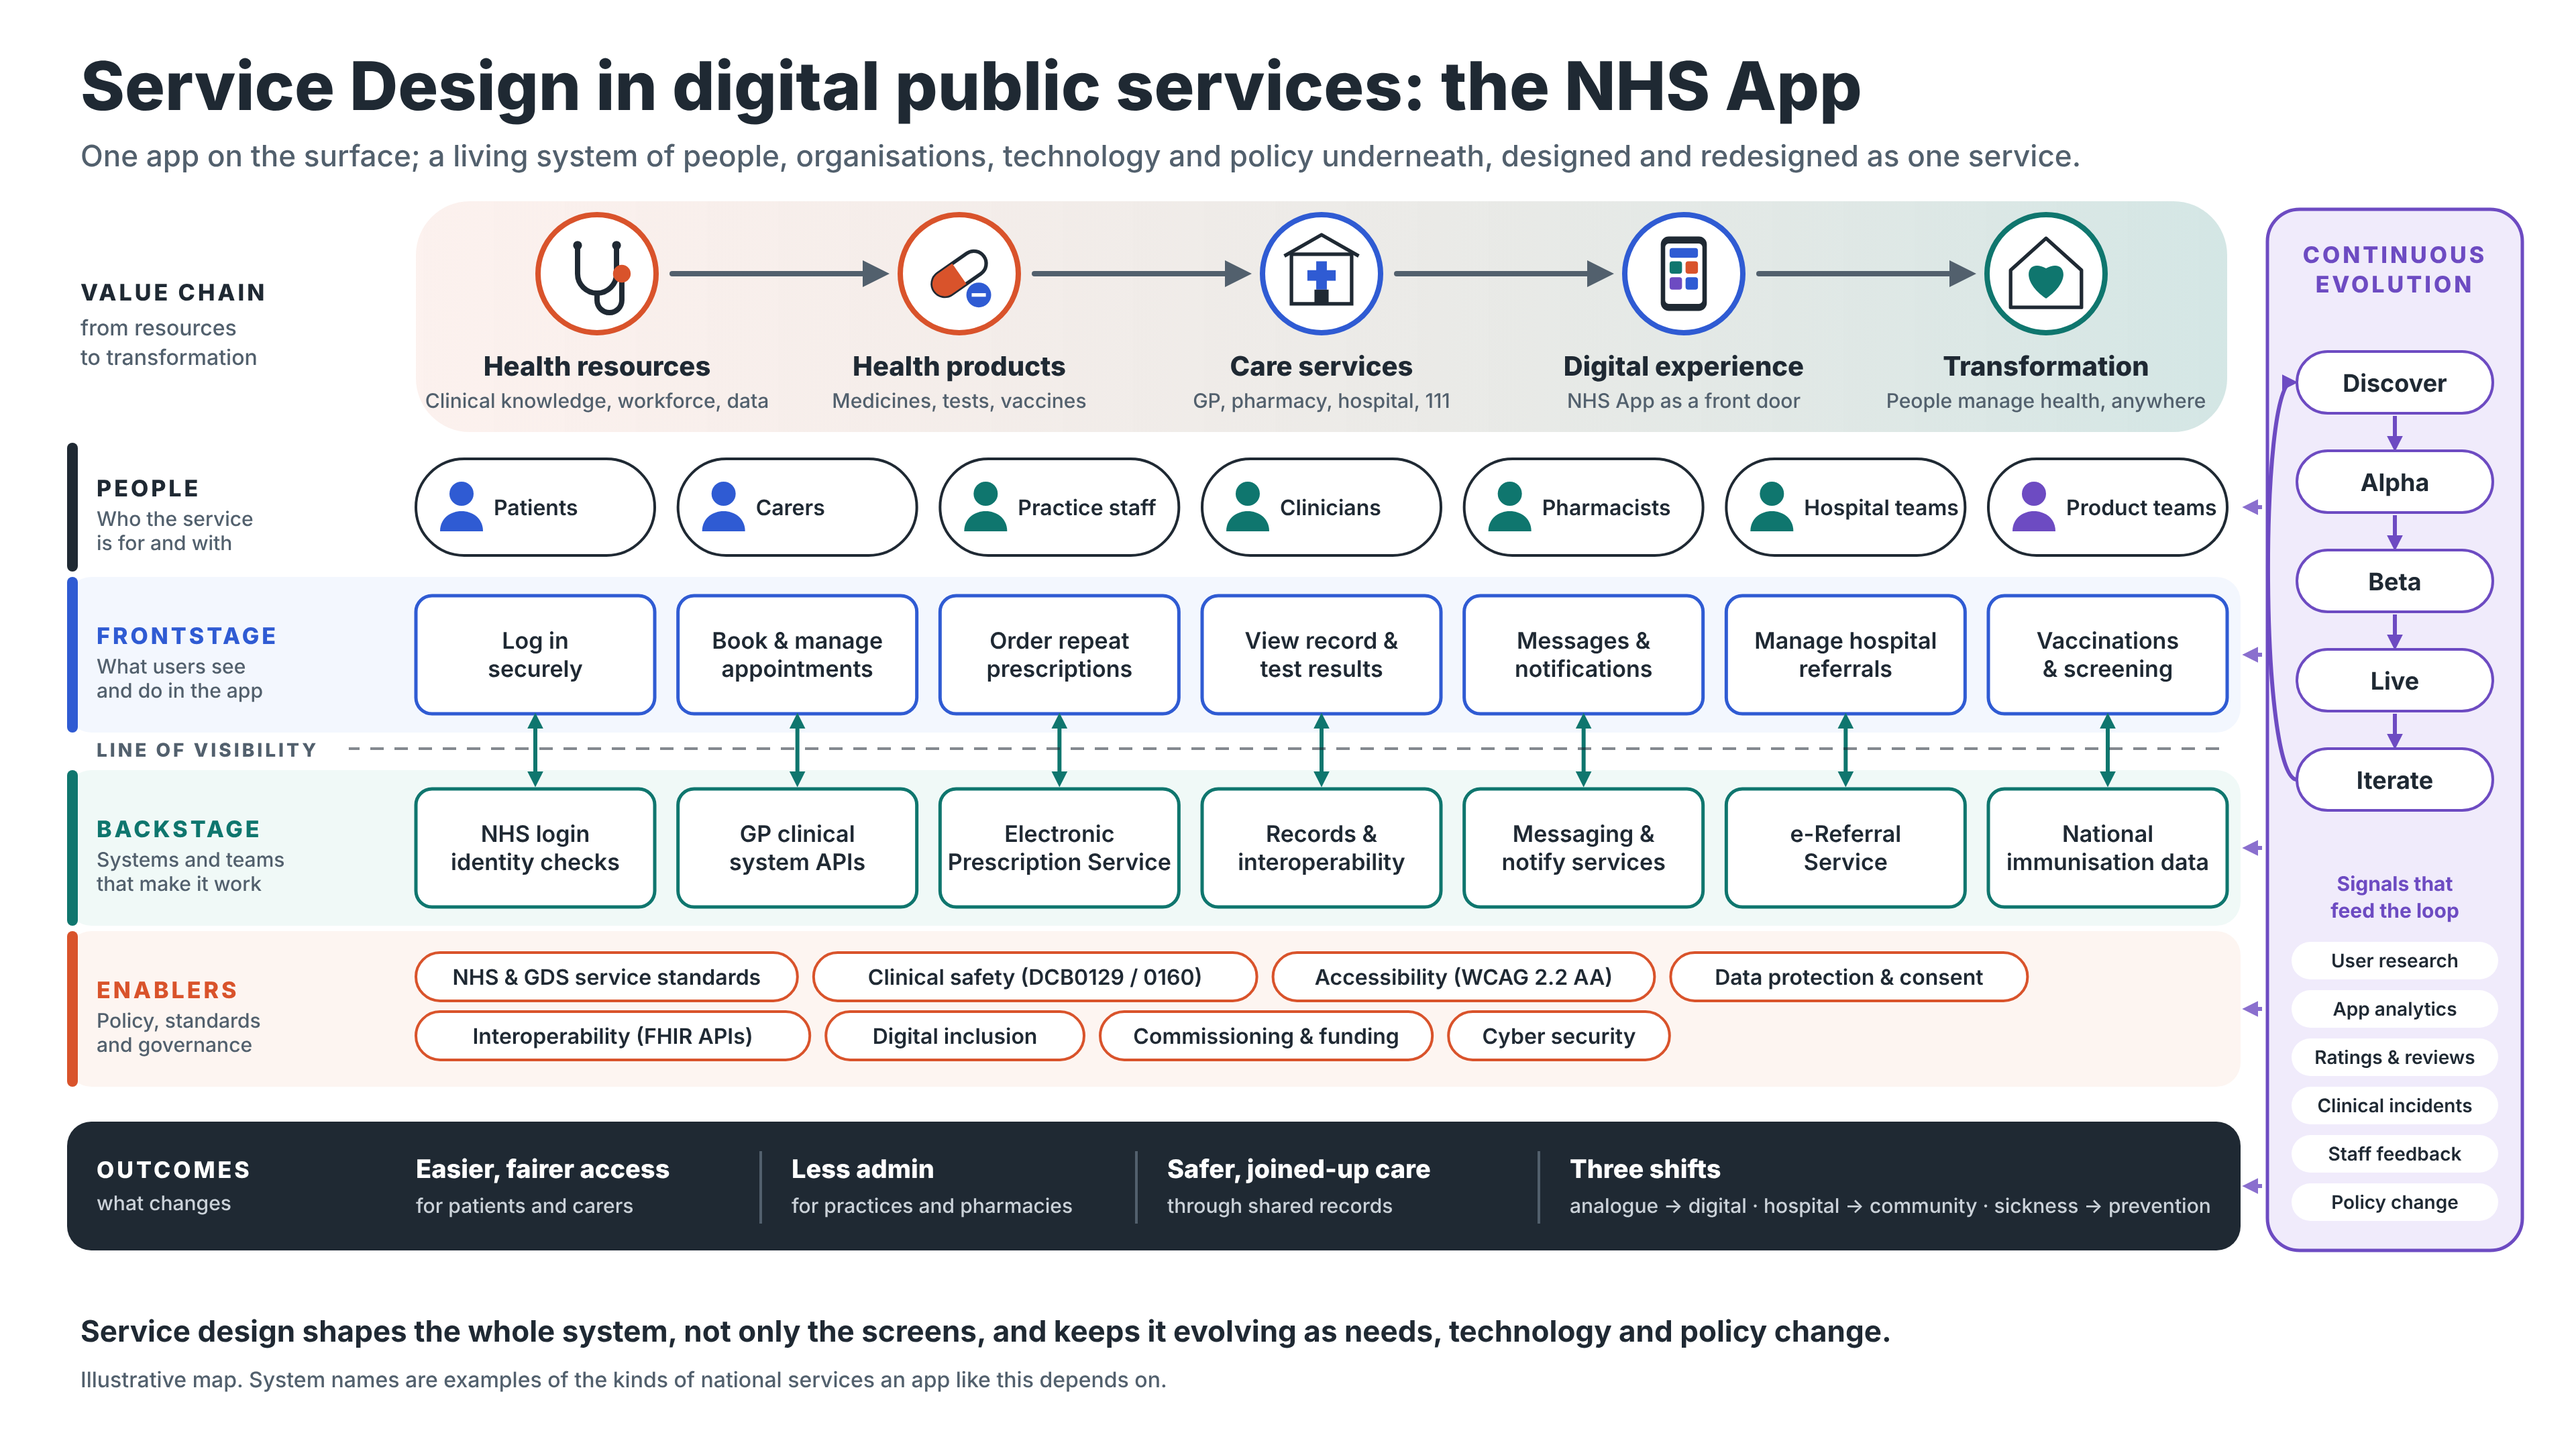
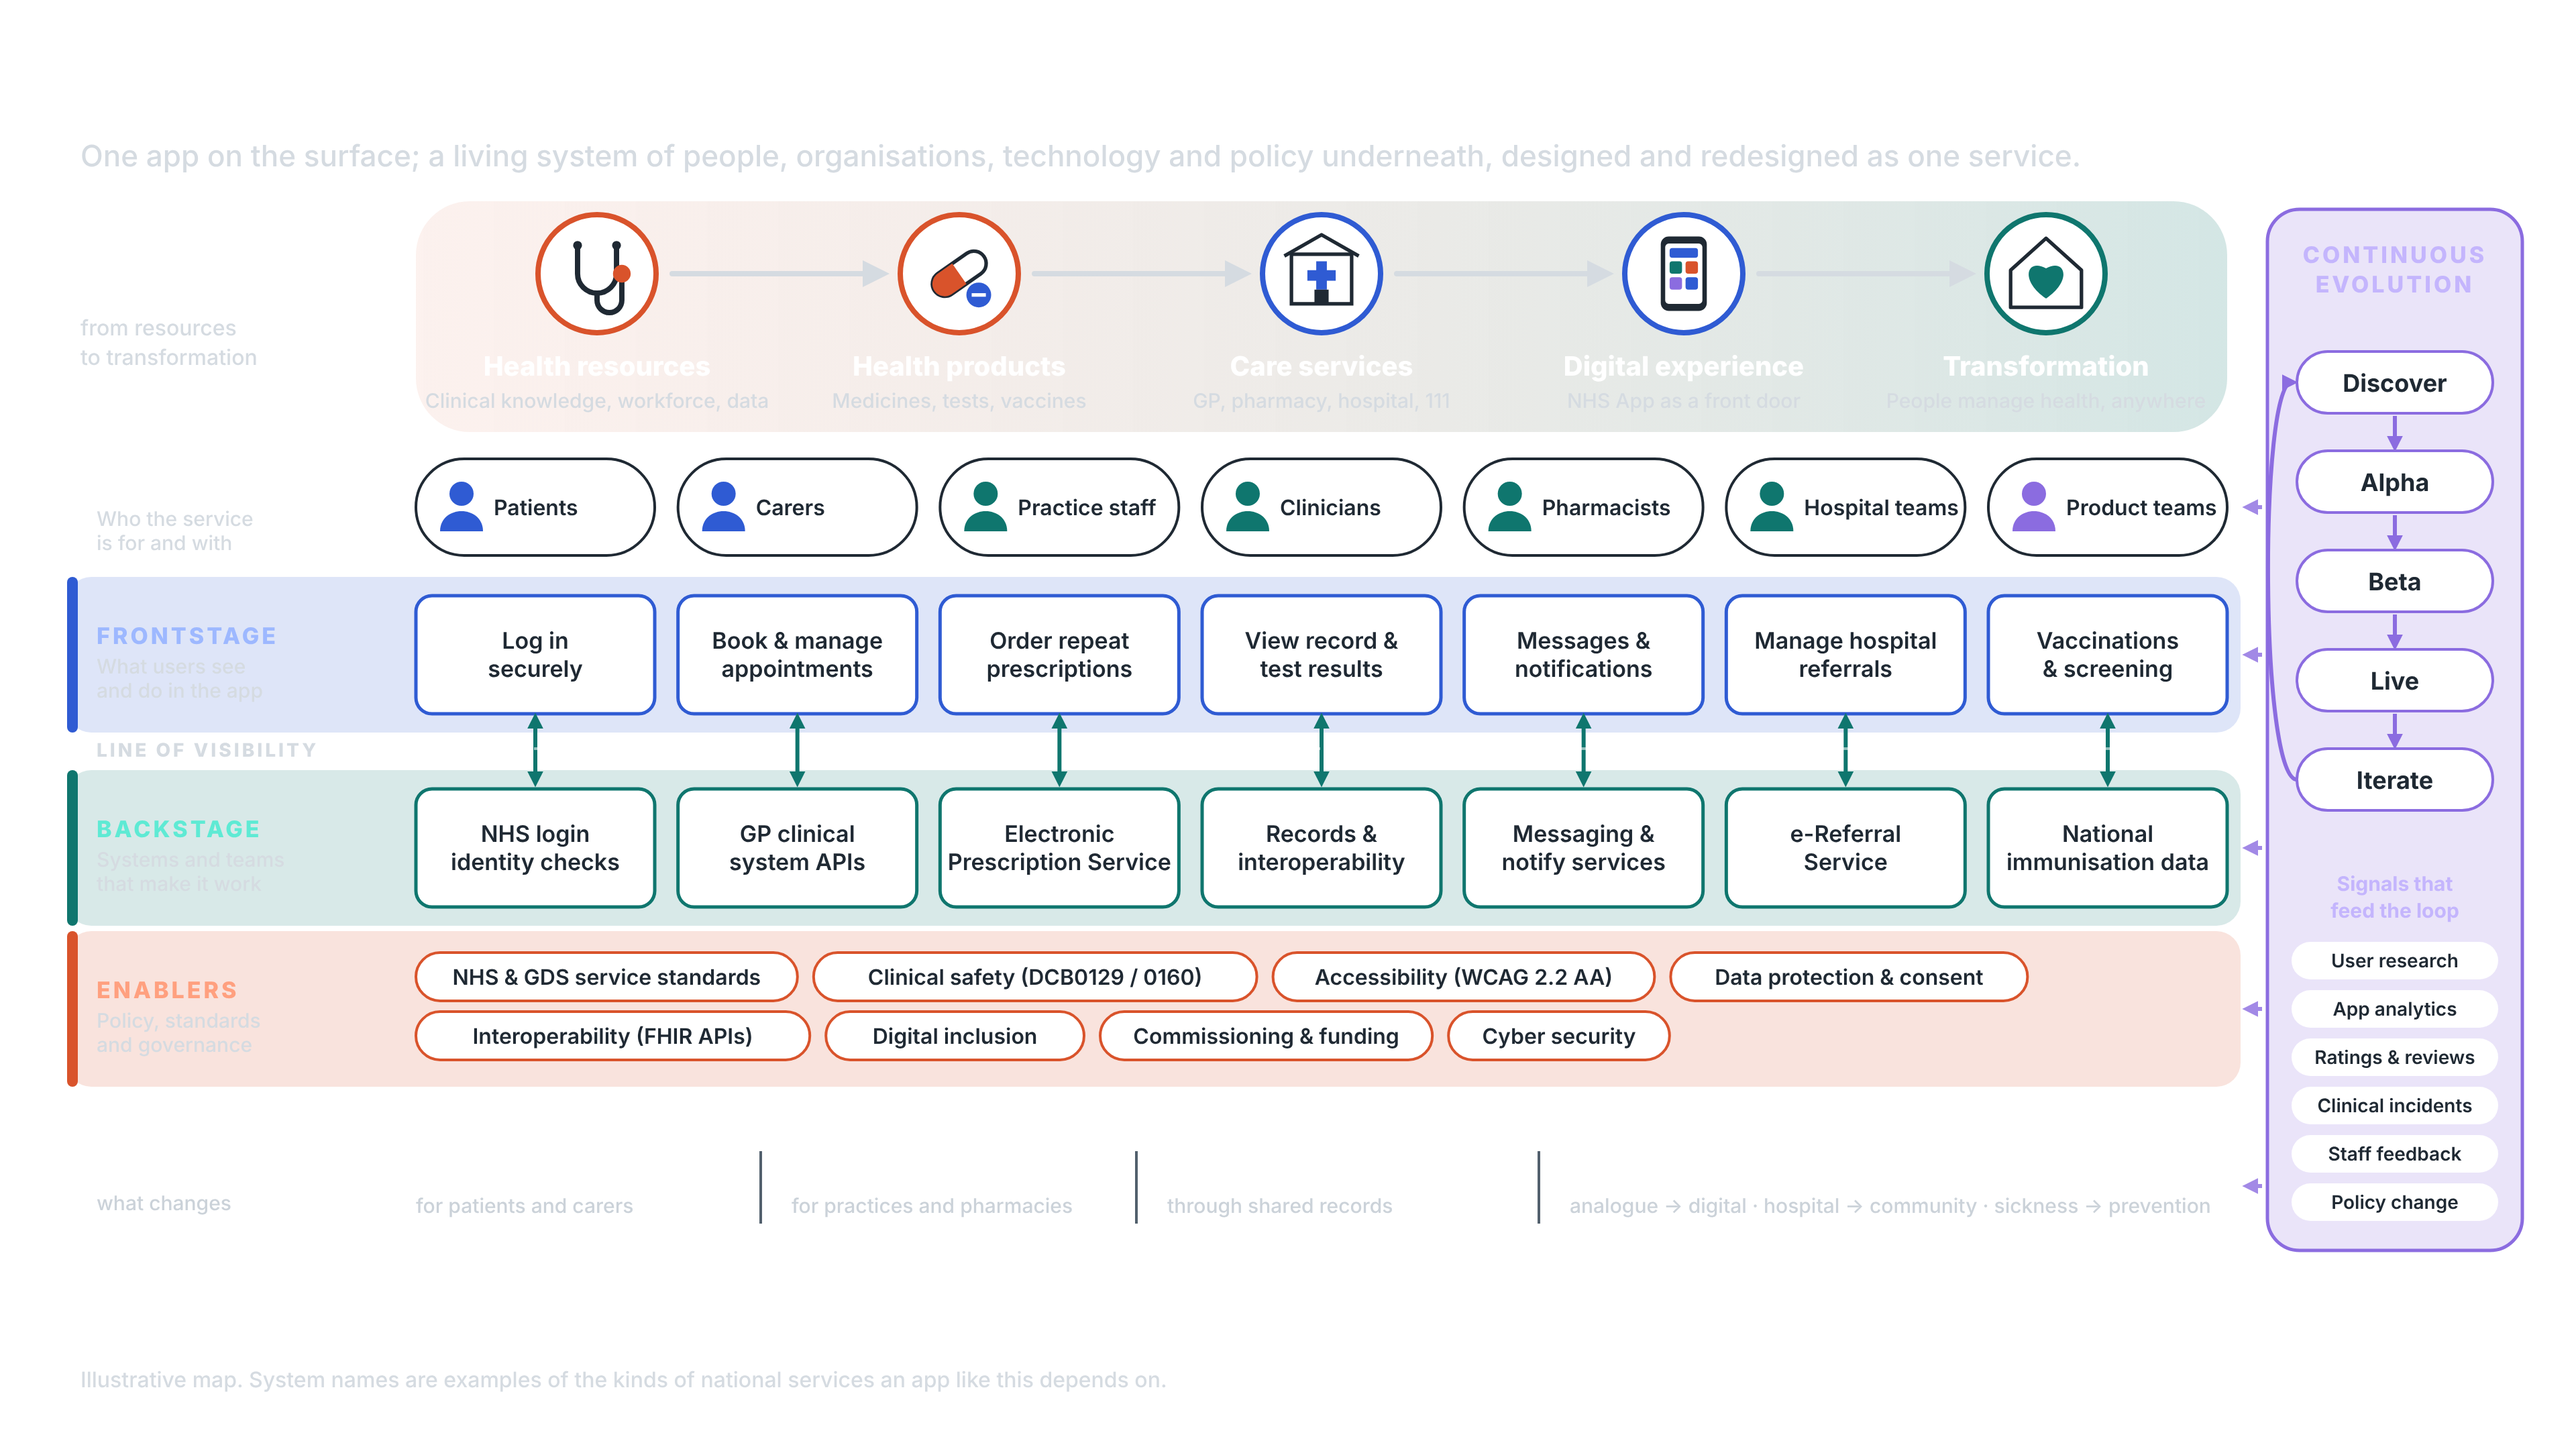
Switch service design slides to white text for dark slide backgrounds
Claude-Session: https://claude.ai/code/session_01TKeqHL9nSxZ7eThbPgS4x9

diff --git a/assets/service-design/source/slide2.py b/assets/service-design/source/slide2.py
@@ -10,9 +10,13 @@ TEAL = "#0F766E"
 TEAL_L = "#E3F4F1"
 CORAL = "#D9532B"
 CORAL_L = "#FCEDE6"
-PURPLE = "#6D4BC2"
+PURPLE = "#8B6CE0"
 PURPLE_L = "#F0EBFB"
 F = "Inter"
+FG = "#FFFFFF"
+FG2 = "#D5DBE1"
+PURPLE_T = "#C4B5FD"
+LIGHT = {BLUE: "#9DB8FF", TEAL: "#5EEAD4", CORAL: "#FFA07F"}
 
 out = []
 add = out.append
@@ -34,7 +38,7 @@ def chip(x, y, w, h, lines, stroke, fill, size=17, weight=600):
 defs = f"""
 <defs>
   <marker id="ah" viewBox="0 0 10 10" refX="6" refY="5" markerWidth="5" markerHeight="5" orient="auto-start-reverse">
-    <path d="M0,0 L10,5 L0,10 z" fill="{MUTED}"/></marker>
+    <path d="M0,0 L10,5 L0,10 z" fill="{FG2}"/></marker>
   <marker id="ahT" viewBox="0 0 10 10" refX="6" refY="5" markerWidth="4" markerHeight="4" orient="auto-start-reverse">
     <path d="M0,0 L10,5 L0,10 z" fill="{TEAL}"/></marker>
   <marker id="ahP" viewBox="0 0 10 10" refX="6" refY="5" markerWidth="4" markerHeight="4" orient="auto">
@@ -45,8 +49,8 @@ defs = f"""
 </defs>"""
 
 # ---------------- title ----------------
-text(60, 82, "Service Design in digital public services: the NHS App", 50, 800, INK, extra='font-family="Inter Display, Inter"')
-text(60, 124, "One app on the surface; a living system of people, organisations, technology and policy underneath, designed and redesigned as one service.", 22, 500, MUTED)
+text(60, 82, "Service Design in digital public services: the NHS App", 50, 800, FG, extra='font-family="Inter Display, Inter"')
+text(60, 124, "One app on the surface; a living system of people, organisations, technology and policy underneath, designed and redesigned as one service.", 22, 500, FG2)
 
 LX, LW = 60, 230          # lane label column
 CX0, CX1 = 310, 1660      # content columns
@@ -84,27 +88,27 @@ for i, (k, t, s, c) in enumerate(chain):
     x = xs[i]
     add(f'<circle cx="{x}" cy="{cy}" r="44" fill="#fff" stroke="{c}" stroke-width="4"/>')
     add(f'<g transform="translate({x},{cy}) scale(0.66)">{icons[k]}</g>')
-    text(x, cy + 76, t, 20, 800, INK, "middle")
-    text(x, cy + 100, s, 15, 500, MUTED, "middle")
+    text(x, cy + 76, t, 20, 800, FG, "middle")
+    text(x, cy + 100, s, 15, 500, FG2, "middle")
     if i < 4:
-        add(f'<path d="M{x+56},{cy} L{xs[i+1]-60},{cy}" stroke="{MUTED}" stroke-width="4" marker-end="url(#ah)" stroke-linecap="round"/>')
-text(LX, cy + 20, "VALUE CHAIN", 17, 800, INK, extra='letter-spacing="2"')
-text(LX, cy + 46, "from resources", 16, 500, MUTED)
-text(LX, cy + 68, "to transformation", 16, 500, MUTED)
+        add(f'<path d="M{x+56},{cy} L{xs[i+1]-60},{cy}" stroke="{FG2}" stroke-width="4" marker-end="url(#ah)" stroke-linecap="round"/>')
+text(LX, cy + 20, "VALUE CHAIN", 17, 800, FG, extra='letter-spacing="2"')
+text(LX, cy + 46, "from resources", 16, 500, FG2)
+text(LX, cy + 68, "to transformation", 16, 500, FG2)
 
 # ---------------- blueprint lanes ----------------
 lanes = [
-    ("PEOPLE", ["Who the service", "is for and with"], 340, 76, INK, "#FFFFFF"),
+    ("PEOPLE", ["Who the service", "is for and with"], 340, 76, FG, "#FFFFFF"),
     ("FRONTSTAGE", ["What users see", "and do in the app"], 440, 96, BLUE, BLUE_L),
     ("BACKSTAGE", ["Systems and teams", "that make it work"], 584, 96, TEAL, TEAL_L),
     ("ENABLERS", ["Policy, standards", "and governance"], 704, 96, CORAL, CORAL_L),
 ]
 for name, sub, y, h, c, fl in lanes:
-    add(f'<rect x="{LX-10}" y="{y-10}" width="{CX1-LX+20}" height="{h+20}" rx="18" fill="{fl}" opacity="{0.0 if fl=="#FFFFFF" else 0.55}"/>')
+    add(f'<rect x="{LX-10}" y="{y-10}" width="{CX1-LX+20}" height="{h+20}" rx="18" fill="{c}" opacity="{0.0 if fl=="#FFFFFF" else 0.16}"/>')
     add(f'<rect x="{LX-10}" y="{y-10}" width="8" height="{h+20}" rx="4" fill="{c}"/>')
-    text(LX + 12, y + h / 2 - 8, name, 17, 800, c if c != INK else INK, extra='letter-spacing="2"')
-    text(LX + 12, y + h / 2 + 14, sub[0], 15, 500, MUTED)
-    text(LX + 12, y + h / 2 + 32, sub[1], 15, 500, MUTED)
+    text(LX + 12, y + h / 2 - 8, name, 17, 800, LIGHT.get(c, FG), extra='letter-spacing="2"')
+    text(LX + 12, y + h / 2 + 14, sub[0], 15, 500, FG2)
+    text(LX + 12, y + h / 2 + 32, sub[1], 15, 500, FG2)
 
 # people
 people = ["Patients", "Carers", "Practice staff", "Clinicians", "Pharmacists", "Hospital teams", "Product teams"]
@@ -132,9 +136,9 @@ for i in range(cols):
     mx = x + cw / 2
     add(f'<path d="M{mx},{536} L{mx},{582}" stroke="{TEAL}" stroke-width="3" marker-start="url(#ahT)" marker-end="url(#ahT)"/>')
 # line of visibility
-add(f'<path d="M{LX},{558} L{CX1},{558}" stroke="{INK}" stroke-width="2" stroke-dasharray="10 8" opacity="0.55"/>')
-add(f'<rect x="{LX-12}" y="547" width="212" height="22" rx="11" fill="#fff"/>')
-text(LX + 12, 564, "LINE OF VISIBILITY", 14, 800, MUTED, "start", 'letter-spacing="2"')
+add(f'<path d="M{LX+230},{558} L{CX1},{558}" stroke="{FG}" stroke-width="2" stroke-dasharray="10 8" opacity="0.55"/>')
+
+text(LX + 12, 564, "LINE OF VISIBILITY", 14, 800, FG2, "start", 'letter-spacing="2"')
 
 enablers = ["NHS &amp; GDS service standards", "Clinical safety (DCB0129 / 0160)", "Accessibility (WCAG 2.2 AA)",
             "Data protection &amp; consent", "Interoperability (FHIR APIs)", "Digital inclusion",
@@ -150,7 +154,7 @@ for e in enablers:
 
 # ---------------- outcomes ----------------
 oy = 836
-add(f'<rect x="{LX-10}" y="{oy}" width="{CX1-LX+20}" height="96" rx="18" fill="{INK}"/>')
+add(f'<rect x="{LX-10}" y="{oy}" width="{CX1-LX+20}" height="96" rx="18" fill="#FFFFFF" fill-opacity="0.08" stroke="#FFFFFF" stroke-opacity="0.35" stroke-width="2"/>')
 text(LX + 12, oy + 42, "OUTCOMES", 17, 800, "#FFFFFF", extra='letter-spacing="2"')
 text(LX + 12, oy + 66, "what changes", 15, 500, "#CBD2D9")
 outs = [("Easier, fairer access", "for patients and carers"), ("Less admin", "for practices and pharmacies"),
@@ -167,9 +171,9 @@ for i, (a, b) in enumerate(outs):
 
 # ---------------- continuous evolution column ----------------
 RW = W - 40 - RX0
-add(f'<rect x="{RX0}" y="156" width="{RW}" height="776" rx="24" fill="{PURPLE_L}" stroke="{PURPLE}" stroke-width="2.5"/>')
-text(RX0 + RW / 2, 196, "CONTINUOUS", 17, 800, PURPLE, "middle", 'letter-spacing="2"')
-text(RX0 + RW / 2, 218, "EVOLUTION", 17, 800, PURPLE, "middle", 'letter-spacing="2"')
+add(f'<rect x="{RX0}" y="156" width="{RW}" height="776" rx="24" fill="{PURPLE}" fill-opacity="0.18" stroke="{PURPLE}" stroke-width="2.5"/>')
+text(RX0 + RW / 2, 196, "CONTINUOUS", 17, 800, PURPLE_T, "middle", 'letter-spacing="2"')
+text(RX0 + RW / 2, 218, "EVOLUTION", 17, 800, PURPLE_T, "middle", 'letter-spacing="2"')
 phases = ["Discover", "Alpha", "Beta", "Live", "Iterate"]
 cx_r = RX0 + RW / 2
 py0, pstep = 262, 74
@@ -182,8 +186,8 @@ for i, ph in enumerate(phases):
 # loop back from Iterate to Discover
 ly1, ly2 = py0 + 4 * pstep + 23, py0 + 23
 add(f'<path d="M{RX0+22},{ly1} C{RX0-6},{ly1} {RX0-6},{ly2} {RX0+18},{ly2}" stroke="{PURPLE}" stroke-width="3" fill="none" marker-end="url(#ahP)"/>')
-text(cx_r, 664, "Signals that", 15, 700, PURPLE, "middle")
-text(cx_r, 684, "feed the loop", 15, 700, PURPLE, "middle")
+text(cx_r, 664, "Signals that", 15, 700, PURPLE_T, "middle")
+text(cx_r, 684, "feed the loop", 15, 700, PURPLE_T, "middle")
 signals = ["User research", "App analytics", "Ratings &amp; reviews", "Clinical incidents", "Staff feedback", "Policy change"]
 for i, s in enumerate(signals):
     y = 702 + i * 36
@@ -194,8 +198,8 @@ for y in (378, 488, 632, 752, 884):
     add(f'<path d="M{RX0-4},{y} L{CX1+16},{y}" stroke="{PURPLE}" stroke-width="3" marker-end="url(#ahP)" opacity="0.8"/>')
 
 # footer
-text(60, 1000, "Service design shapes the whole system, not only the screens, and keeps it evolving as needs, technology and policy change.", 22, 700, INK)
-text(60, 1034, "Illustrative map. System names are examples of the kinds of national services an app like this depends on.", 16, 500, MUTED)
+text(60, 1000, "Service design shapes the whole system, not only the screens, and keeps it evolving as needs, technology and policy change.", 22, 700, FG)
+text(60, 1034, "Illustrative map. System names are examples of the kinds of national services an app like this depends on.", 16, 500, FG2)
 
 svg = f'<svg xmlns="http://www.w3.org/2000/svg" width="{W}" height="{H}" viewBox="0 0 {W} {H}">{defs}{"".join(out)}</svg>'
 open(sys.argv[1], "w").write(svg)

diff --git a/assets/service-design/source/slide1.py b/assets/service-design/source/slide1.py
@@ -11,6 +11,9 @@ CREAM = "#F6EBDD"
 TEAL = "#0F766E"
 BLUE = "#3354C4"
 CORAL = "#E4572E"
+FG = "#FFFFFF"
+FG2 = "#D5DBE1"
+TEAL_T = "#5EEAD4"
 
 defs = f"""
 <defs>
@@ -24,7 +27,7 @@ defs = f"""
     <stop offset="1" stop-color="{CORAL}"/>
   </linearGradient>
   <marker id="ah" viewBox="0 0 10 10" refX="6" refY="5" markerWidth="5" markerHeight="5" orient="auto-start-reverse">
-    <path d="M0,0 L10,5 L0,10 z" fill="{MUTED}"/>
+    <path d="M0,0 L10,5 L0,10 z" fill="{FG2}"/>
   </marker>
   <marker id="ahLoop" viewBox="0 0 10 10" refX="5" refY="5" markerWidth="4" markerHeight="4" orient="auto">
     <path d="M0,0 L10,5 L0,10 z" fill="{CORAL}"/>
@@ -175,16 +178,16 @@ for i, (t, sub, icon) in enumerate(stages):
     body.append(f'<circle cx="{x}" cy="{y}" r="138" fill="#FFFFFF"/>')
     body.append(f'<circle cx="{x}" cy="{y}" r="138" fill="none" stroke="{[CARAMEL, CARAMEL, CORAL, BLUE, TEAL][i]}" stroke-width="4"/>')
     body.append(f'<g transform="translate({x},{y}) scale(0.86)">{icon}</g>')
-    body.append(f'<text x="{x}" y="{y+196}" text-anchor="middle" font-family="Inter" font-weight="800" font-size="32" fill="{INK}">{t}</text>')
-    body.append(f'<text x="{x}" y="{y+232}" text-anchor="middle" font-family="Inter" font-weight="500" font-size="22" fill="{MUTED}">{sub}</text>')
+    body.append(f'<text x="{x}" y="{y+196}" text-anchor="middle" font-family="Inter" font-weight="800" font-size="32" fill="{FG}">{t}</text>')
+    body.append(f'<text x="{x}" y="{y+232}" text-anchor="middle" font-family="Inter" font-weight="500" font-size="22" fill="{FG2}">{sub}</text>')
     if i < 4:
-        body.append(f'<path d="M{x+150},{y} L{xs[i+1]-158},{y}" stroke="{MUTED}" stroke-width="6" fill="none" stroke-linecap="round" marker-end="url(#ah)"/>')
+        body.append(f'<path d="M{x+150},{y} L{xs[i+1]-158},{y}" stroke="{FG2}" stroke-width="6" fill="none" stroke-linecap="round" marker-end="url(#ah)"/>')
 
-body.append(f'<text x="960" y="920" text-anchor="middle" font-family="Inter" font-weight="700" font-size="30" fill="{INK}">Continuously evolving through <tspan fill="{TEAL}">Service Design</tspan></text>')
+body.append(f'<text x="960" y="920" text-anchor="middle" font-family="Inter" font-weight="700" font-size="30" fill="{FG}">Continuously evolving through <tspan fill="{TEAL_T}">Service Design</tspan></text>')
 
 # title
-body.append(f'<text x="80" y="104" font-family="Inter Display, Inter" font-weight="800" font-size="60" fill="{INK}">What is Service Design?</text>')
-body.append(f'<text x="80" y="152" font-family="Inter" font-weight="500" font-size="26" fill="{MUTED}">Designing how value reaches people, from a raw commodity to a transformed everyday experience.</text>')
+body.append(f'<text x="80" y="104" font-family="Inter Display, Inter" font-weight="800" font-size="60" fill="{FG}">What is Service Design?</text>')
+body.append(f'<text x="80" y="152" font-family="Inter" font-weight="500" font-size="26" fill="{FG2}">Designing how value reaches people, from a raw commodity to a transformed everyday experience.</text>')
 
 svg = f'<svg xmlns="http://www.w3.org/2000/svg" width="{W}" height="{H}" viewBox="0 0 {W} {H}">{defs}{"".join(body)}</svg>'
 open(sys.argv[1], "w").write(svg)
